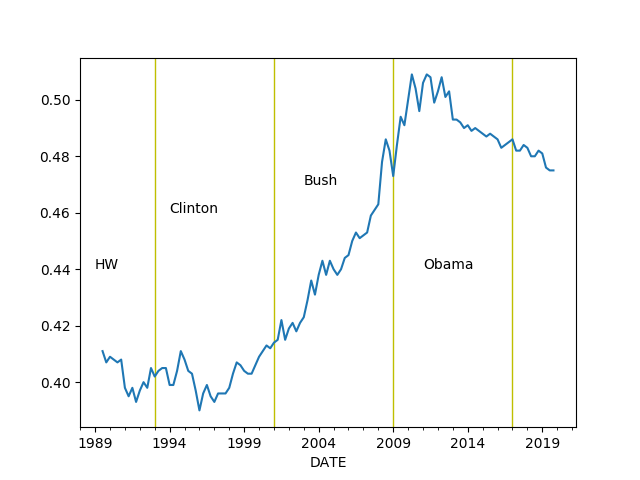
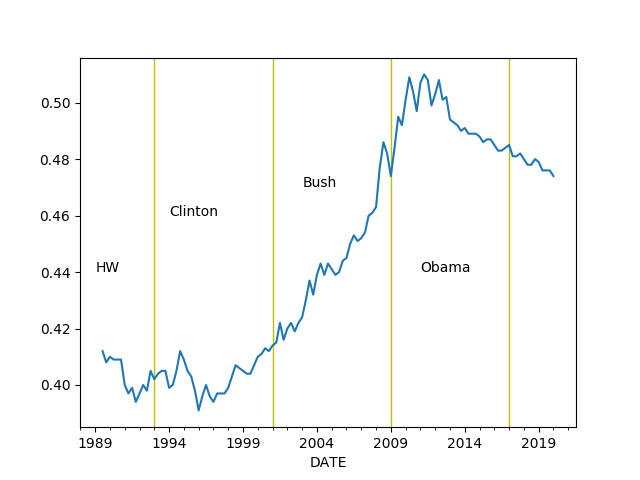
-

diff --git a/en/2019/05/stats.md b/en/2019/05/stats.md
@@ -786,10 +786,10 @@ plt.savefig('gini.png')
 
 ```text
 DATE
-2019-01-01    0.481
 2019-04-01    0.476
-2019-07-01    0.475
-2019-10-01    0.475
+2019-07-01    0.476
+2019-10-01    0.476
+2020-01-01    0.474
 Freq: QS-OCT, dtype: float64
 ```
 
